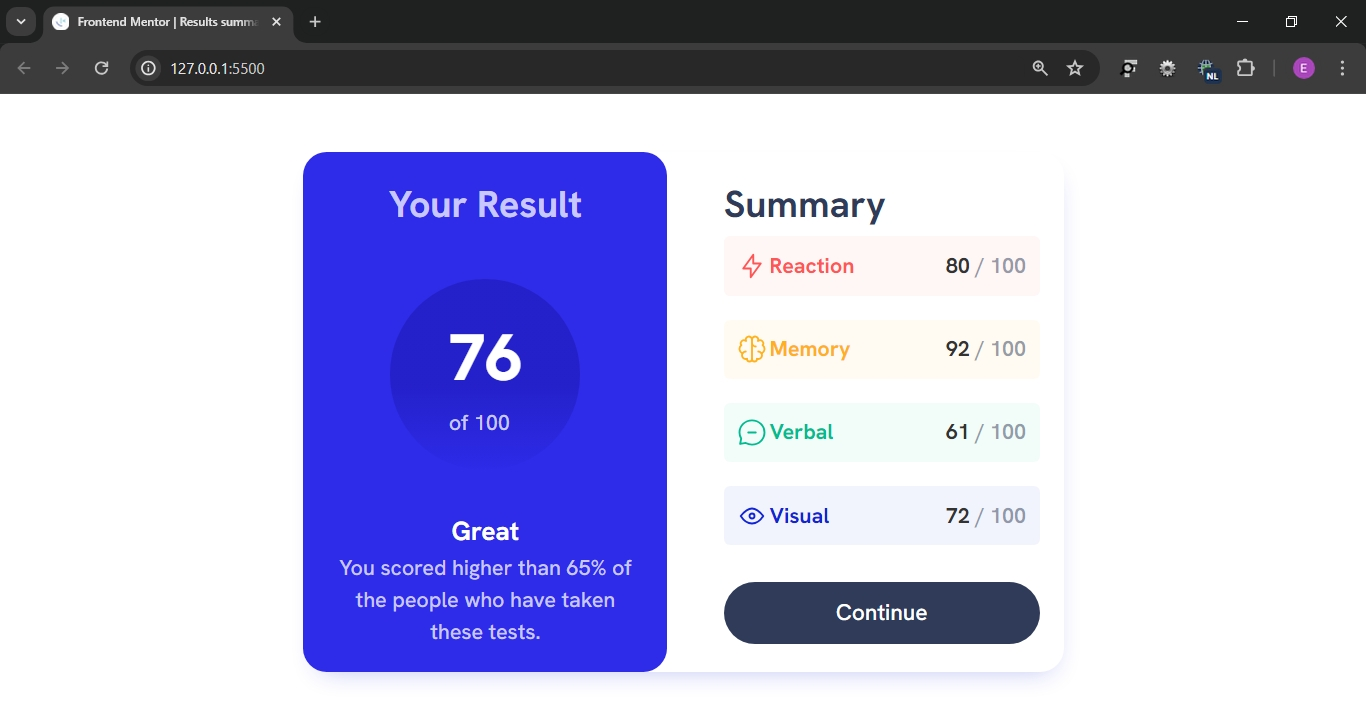
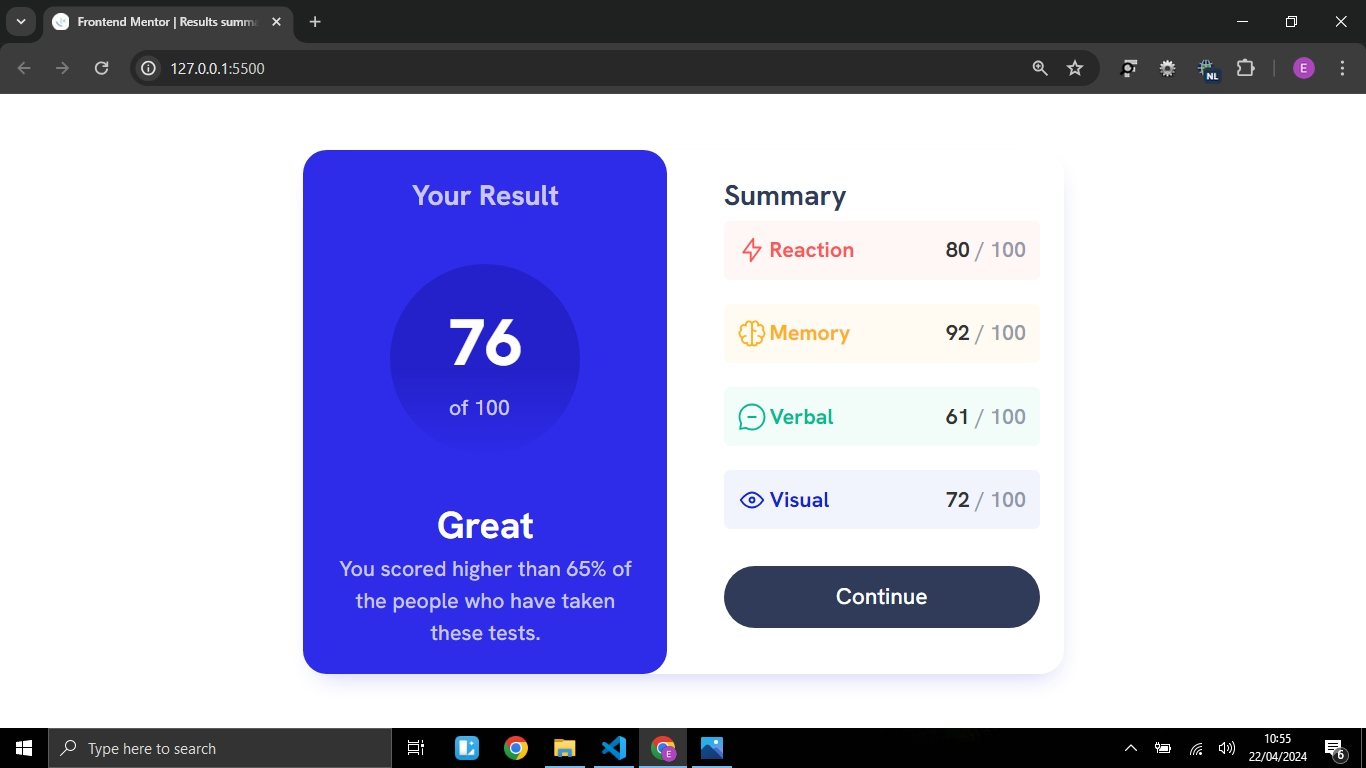
fn

diff --git a/style.css b/style.css
@@ -15,7 +15,6 @@
 
 body {
     font-family: 'Hanken Grotesk', sans-serif;
-    font-weight: 500;
     line-height: 1.5;
     scroll-behavior: smooth;
 }
@@ -27,6 +26,9 @@ body {
     --NEUTRAL_LIGHT_COLOR: hsl(0, 0%, 100%);
     --NEUTRAL_DARK_COLOR: hsl(224, 30%, 27%);
     --FADED_NEUTRAL_DARK_COLOR: hsla(224, 30%, 27%, 0.5);
+    --FW-BASE: 500;
+    --FW-LG: 700;
+    --FW-XL: 800;
 }
 
 /* For browsers that support clamp  */
@@ -69,15 +71,17 @@ body {
   /*  || GENERAL STYLES   */
 body {
     font-size: var(--fs-base);
+    font-weight: var(--FW-BASE);
     min-height: 100vh;
     overflow-y: auto;
     background-color: var(--NEUTRAL_LIGHT_COLOR);
 }
 h1, h2 {
-    font-size:  var(--fs-lg);
-    font-weight: 700;
+    font-size:  var(--fs-md);
+    font-weight: var(--FW-LG);
     margin-bottom: 0.125em;
 }
+
 h3 {
     font-size: var(--fs-base);
 }
@@ -101,13 +105,13 @@ h3 {
 
 .result > p:nth-child(2) strong {
     display: block;
-    font-size: 22px;
+    font-size: var(--fs-lg);
     color: var(--NEUTRAL_LIGHT_COLOR);
 }
 
 #total-score {
-    font-size: 55px;
-    font-weight: 800;
+    font-size: var(--fs-xxl);
+    font-weight: var(--FW-XL);
     color: var(--NEUTRAL_LIGHT_COLOR);
 }
 
@@ -156,6 +160,16 @@ h3 {
  .accent4 {
      background-color: hsl(234, 85%, 45%, 0.05);
       color: hsl(234, 85%, 45%);
+ }
+ 
+ .fw-base {
+    font-weight: var(--FW-BASE);
+ }
+ .fw-lg {
+    font-weight: var(--FW-LG);
+ }
+ .fw-xl {
+    font-weight: var(--FW-XL);
  }
 
  
